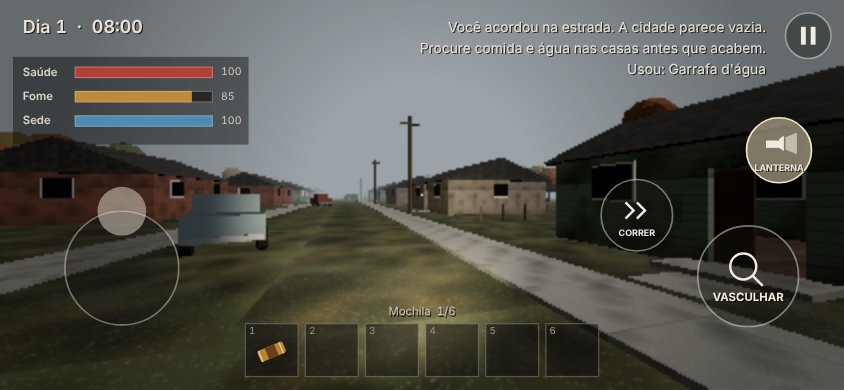
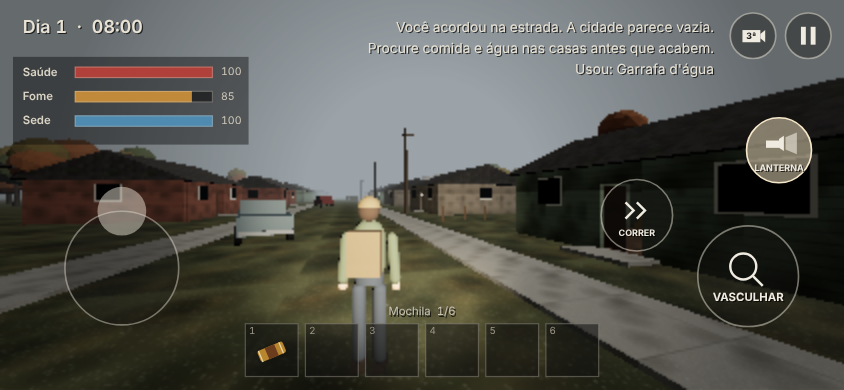
feat: câmera em terceira pessoa e personagem sobrevivente
Câmera sobre o ombro que se aproxima nas paredes, personagem com jaqueta,
boné e mochila que anda, corre e se abaixa ao vasculhar; V ou botão no
celular troca para primeira pessoa. Ajustes de câmera em config.js.

Story: SPIKE sobrevivencia-spike-2026-11-20

Claude-Session: https://claude.ai/code/session_013o8aek17KGRmKMrjDa2EVT

diff --git a/prototypes/sobrevivencia-spike-2026-11-20/index.html b/prototypes/sobrevivencia-spike-2026-11-20/index.html
@@ -40,11 +40,11 @@ const TITLE = 'SOBREVIVÊNCIA';
 const CONTROLS = TOUCH ? [
   'Polegar esquerdo: andar   ·   Arraste à direita: olhar',
   'Segure VASCULHAR perto de um móvel   ·   Toque na mochila: comer / beber',
-  'Botões: correr, lanterna e pausa',
+  'Botões: correr, lanterna, câmera e pausa',
 ] : [
   'W A S D: andar   ·   Mouse: olhar (ou setas ← →)   ·   Shift: correr',
   'Segure E: vasculhar móveis   ·   1 a 6: comer / beber / usar',
-  'F: lanterna   ·   P ou Esc: pausa   ·   M: som',
+  'F: lanterna   ·   V: trocar câmera   ·   P ou Esc: pausa   ·   M: som',
 ];
 const clock = window.GAME_CLOCK || { now: () => performance.now() / 1000 };
 const CHEAP = params.get('render') === 'cheap';
@@ -140,6 +140,7 @@ function layoutButtons() { // the right thumb's column, kept clear of the backpa
   BTN.run = { x: W - 255, y: H - 215, r: 44, label: 'CORRER' };
   BTN.flash = { x: W - 80, y: H - 295, r: 40, label: 'LANTERNA' };
   BTN.pause = { x: W - 44, y: 44, r: 28, label: '' };
+  BTN.view = { x: W - 112, y: 44, r: 28, label: '' };
 }
 layoutButtons();
 function toLogical(e) {
@@ -178,6 +179,7 @@ addEventListener('pointerdown', e => {
       else if (k === 'run') touch.run = !touch.run;
       else if (k === 'flash') hit.add('KeyF');
       else if (k === 'pause') hit.add('KeyP');
+      else if (k === 'view') hit.add('KeyV');
       return;
     }
   }
@@ -235,6 +237,10 @@ function drawTouch() {
       ctx.fillRect(b.x - 16, b.y - 12, 16, 9); ctx.beginPath(); ctx.moveTo(b.x, b.y - 14); ctx.lineTo(b.x + 6, b.y - 18); ctx.lineTo(b.x + 6, b.y + 1); ctx.lineTo(b.x, b.y - 3); ctx.fill();
       if (state.flash) { ctx.globalAlpha = 0.6; ctx.beginPath(); ctx.moveTo(b.x + 8, b.y - 16); ctx.lineTo(b.x + 22, b.y - 22); ctx.lineTo(b.x + 22, b.y + 5); ctx.lineTo(b.x + 8, b.y - 1); ctx.fill(); ctx.globalAlpha = 1; }
     } else if (k === 'pause') { ctx.fillRect(b.x - 9, b.y - 11, 6, 22); ctx.fillRect(b.x + 3, b.y - 11, 6, 22); }
+    else if (k === 'view') { // camera body with a lens; a small figure when in third person
+      ctx.fillRect(b.x - 13, b.y - 7, 22, 15); ctx.beginPath(); ctx.moveTo(b.x + 9, b.y - 2); ctx.lineTo(b.x + 15, b.y - 7); ctx.lineTo(b.x + 15, b.y + 8); ctx.lineTo(b.x + 9, b.y + 3); ctx.fill();
+      ctx.fillStyle = '#222'; ctx.font = `700 11px ${FONT}`; ctx.textAlign = 'center'; ctx.textBaseline = 'middle'; ctx.fillText(viewMode === 3 ? '3ª' : '1ª', b.x - 2, b.y + 1);
+    }
     if (b.label) shadowText(b.label, b.x, b.y + (k === 'search' ? 26 : 22), k === 'search' ? 14 : 11, '#f0ebe0', 'center', '700');
   }
   ctx.restore();
@@ -612,6 +618,56 @@ function buildWorld() {
 buildWorld();
 const aimTargets = solids.slice();
 
+// ---- The survivor (third person) -----------------------------------------------------------
+// Built from capsules and boxes, facing local -z. Legs and arms swing from hip and shoulder
+// pivots; crouching lowers the body and reaches the arms forward.
+let viewMode = 3; // 3: over the shoulder, 1: through the eyes (V or the camera button)
+const hero = (() => {
+  const C = (c, r = 0.85) => new THREE.MeshStandardMaterial({ color: c, roughness: r });
+  const skin = C(0xb88a6c, 0.7), jacket = C(0x4b5340), pants = C(0x30363f), boots = C(0x2b231d), cap = C(0x6b5a3f), pack = C(0x5b4a33), strap = C(0x2e2a24);
+  const root = new THREE.Group(), body = new THREE.Group(); root.add(body); world.add(root);
+  const part = (geo, mat, x, y, z, parent) => { const m = new THREE.Mesh(geo, mat); m.position.set(x, y, z); m.castShadow = true; parent.add(m); return m; };
+  const legs = [-0.11, 0.11].map(x => {
+    const pv = new THREE.Group(); pv.position.set(x, 0.95, 0); root.add(pv);
+    part(new THREE.CapsuleGeometry(0.075, 0.68, 4, 10), pants, 0, -0.43, 0, pv);
+    part(new THREE.BoxGeometry(0.13, 0.11, 0.27), boots, 0, -0.89, -0.04, pv);
+    return pv;
+  });
+  const torso = new THREE.Group(); torso.position.y = 0.95; body.add(torso);
+  part(new THREE.CapsuleGeometry(0.17, 0.32, 4, 12), jacket, 0, 0.32, 0, torso).scale.set(1, 1, 0.72);
+  part(new THREE.CylinderGeometry(0.16, 0.15, 0.12, 12), pants, 0, 0.04, 0, torso).scale.set(1, 1, 0.75);
+  part(new THREE.CylinderGeometry(0.05, 0.06, 0.1, 8), skin, 0, 0.62, 0, torso);
+  part(new THREE.SphereGeometry(0.115, 16, 12), skin, 0, 0.74, 0, torso).scale.set(0.92, 1.08, 1);
+  part(new THREE.SphereGeometry(0.122, 16, 8, 0, Math.PI * 2, 0, Math.PI / 2), cap, 0, 0.77, 0, torso);
+  part(new THREE.SphereGeometry(0.118, 14, 10), C(0x3a2c22, 1), 0, 0.735, 0.018, torso).scale.set(0.95, 0.95, 0.95); // hair, showing at the back
+  part(new THREE.BoxGeometry(0.2, 0.02, 0.12), cap, 0, 0.775, -0.15, torso);
+  part(new THREE.BoxGeometry(0.32, 0.42, 0.17), pack, 0, 0.34, 0.2, torso);
+  part(new THREE.BoxGeometry(0.28, 0.12, 0.06), pack, 0, 0.2, 0.31, torso);
+  for (const x of [-0.1, 0.1]) part(new THREE.BoxGeometry(0.04, 0.42, 0.03), strap, x, 0.36, -0.12, torso);
+  const arms = [-0.235, 0.235].map(x => {
+    const pv = new THREE.Group(); pv.position.set(x, 0.5, 0); torso.add(pv);
+    part(new THREE.CapsuleGeometry(0.06, 0.42, 4, 8), jacket, 0, -0.26, 0, pv);
+    part(new THREE.SphereGeometry(0.05, 10, 8), skin, 0, -0.55, -0.01, pv);
+    return pv;
+  });
+  return { root, body, torso, legs, arms };
+})();
+function lerpAngle(a, b, t) { let d = ((b - a + Math.PI) % (Math.PI * 2) + Math.PI * 2) % (Math.PI * 2) - Math.PI; return a + d * t; }
+function poseHero(x, z) {
+  const s = state, h = hero, c = s.crouch || 0;
+  h.root.position.set(x, 0, z); h.root.rotation.y = s.face;
+  const amp = s.speedNow > 4.5 ? 0.85 : 0.5, sw = Math.sin(s.bob * 1.4) * amp * Math.min(1, s.speedNow / 2);
+  h.legs[0].rotation.x = sw * (1 - c); h.legs[1].rotation.x = -sw * (1 - c);
+  h.legs[0].scale.y = h.legs[1].scale.y = 1 - 0.32 * c;
+  h.torso.position.y = 0.95 - 0.3 * c + Math.abs(Math.sin(s.bob * 1.4)) * 0.03 * Math.min(1, s.speedNow / 2);
+  h.torso.rotation.x = -0.45 * c - (s.speedNow > 4.5 ? 0.15 : 0);
+  const reach = c > 0.5 ? Math.sin(s.t * 9) * 0.25 : 0;
+  h.arms[0].rotation.x = -sw * 0.8 * (1 - c) - 1.1 * c + reach; h.arms[1].rotation.x = sw * 0.8 * (1 - c) - 1.1 * c - reach;
+  h.arms[0].rotation.z = -0.08; h.arms[1].rotation.z = 0.08;
+}
+const camRay = new THREE.Raycaster();
+const _v = new THREE.Vector3(), _o = new THREE.Vector3();
+
 // ---- Loot ------------------------------------------------------------------------------
 function rollLoot(type, chance = 1) {
   const t = CONFIG.loot[type], out = [];
@@ -637,7 +693,7 @@ function reset() {
     hour: sh !== null ? Number(sh) : tune.start_hour, startHour: sh !== null ? Number(sh) : tune.start_hour,
     health: 100, hunger: tune.start_hunger, thirst: tune.start_thirst, sick: 0,
     inv: ['agua', 'cereal'], flash: false, search: null, aim: null, msgs: [],
-    walked: 0, bob: 0, heart: 0, searched: 0, eaten: 0, days: 0, dead: false,
+    walked: 0, bob: 0, heart: 0, face: 0, crouch: 0, speedNow: 0, searched: 0, eaten: 0, days: 0, dead: false,
   };
   for (const c of containers) { c.items = rollLoot(c.type); c.searched = false; c.refillAt = 0; }
   say('Você acordou na estrada. A cidade parece vazia.');
@@ -647,6 +703,21 @@ function say(s) { state.msgs.push({ s, life: 6 }); if (state.msgs.length > 5) st
 const ray = new THREE.Raycaster(); ray.far = 2.4;
 const v2 = new THREE.Vector2(0, 0);
 function aimContainer() {
+  if (viewMode === 3) { // the nearest furniture in front of the survivor, in the same room
+    const s = state, fx = -Math.sin(s.yaw), fz = -Math.cos(s.yaw);
+    let best = null, bd = 1e9;
+    for (const c of containers) {
+      const p = c.group.position, dx = p.x - s.x, dz = p.z - s.z, d = Math.hypot(dx, dz);
+      if (d > tune.reach_3p || d >= bd) continue;
+      if (d > 0.01 && (dx * fx + dz * fz) / d < 0.35) continue;
+      _o.set(s.x, 1.0, s.z); _v.set(dx, 0, dz).normalize(); ray.set(_o, _v); ray.far = d;
+      const hit = ray.intersectObjects(aimTargets, false)[0];
+      let o = hit && hit.object, mine = !hit;
+      while (o && !mine) { if (o.userData.container === c) mine = true; o = o.parent; }
+      if (mine) { best = c; bd = d; }
+    }
+    ray.far = 2.4; return best;
+  }
   ray.setFromCamera(v2, camera);
   const hits = ray.intersectObjects(aimTargets, false);
   if (!hits.length) return null;
@@ -655,9 +726,25 @@ function aimContainer() {
   return null;
 }
 function placeCamera(alpha = 1) {
-  const s = state;
-  camera.position.set(s.px + (s.x - s.px) * alpha, 1.62 + Math.sin(s.bob) * 0.035, s.pz + (s.z - s.pz) * alpha);
+  const s = state, x = s.px + (s.x - s.px) * alpha, z = s.pz + (s.z - s.pz) * alpha;
   camera.rotation.set(s.pitch, s.yaw, 0);
+  if (viewMode === 1 || scene === 'title') {
+    hero.root.visible = false;
+    camera.position.set(x, 1.62 - 0.45 * (s.crouch || 0) + Math.sin(s.bob) * 0.035, z); return;
+  }
+  poseHero(x, z);
+  // over the shoulder: back along the view, to the right, pulled in when a wall is in the way
+  const cp = Math.cos(s.pitch), sy = Math.sin(s.yaw), cy = Math.cos(s.yaw);
+  _o.set(x, 1.55 - 0.3 * (s.crouch || 0), z);
+  _v.set(sy * cp * tune.cam_distance + cy * tune.cam_shoulder, tune.cam_height - Math.sin(s.pitch) * tune.cam_distance,
+    cy * cp * tune.cam_distance - sy * tune.cam_shoulder);
+  const want = _v.length(); _v.normalize();
+  camRay.set(_o, _v); camRay.far = want + 0.25;
+  const hit = camRay.intersectObjects(aimTargets, false)[0];
+  const d = hit ? Math.max(0.2, hit.distance - 0.25) : want;
+  camera.position.copy(_o).addScaledVector(_v, d);
+  if (camera.position.y < 0.25) camera.position.y = 0.25;
+  hero.root.visible = d > 0.7; // too close to the head: hide the body rather than look through it
 }
 function collide(p) {
   const r = tune.player_radius;
@@ -746,7 +833,8 @@ const scenes = {
       s.yaw -= lookX * tune.mouse_sens; s.pitch -= lookY * tune.mouse_sens; lookX = lookY = 0;
       if (down.has('ArrowLeft')) s.yaw += tune.turn_speed * dt;
       if (down.has('ArrowRight')) s.yaw -= tune.turn_speed * dt;
-      s.pitch = Math.max(-1.4, Math.min(1.4, s.pitch));
+      s.pitch = viewMode === 3 ? Math.max(-1.0, Math.min(0.75, s.pitch)) : Math.max(-1.4, Math.min(1.4, s.pitch));
+      if (pressed('KeyV')) { viewMode = viewMode === 3 ? 1 : 3; say(viewMode === 3 ? 'Câmera: terceira pessoa' : 'Câmera: primeira pessoa'); sfx.click(); }
       // move
       let f = 0, st = 0;
       if (down.has('KeyW') || down.has('ArrowUp')) f += 1;
@@ -763,9 +851,11 @@ const scenes = {
         s.x += (-sy * f + cy * st) / len * sp * dt; s.z += (-cy * f - sy * st) / len * sp * dt;
         collide(s);
         const moved = Math.hypot(s.x - s.px, s.z - s.pz);
+        if (moved > 0.001) s.face = lerpAngle(s.face, Math.atan2(-(s.x - s.px), -(s.z - s.pz)), Math.min(1, 12 * dt));
         s.bob += moved * 3.2; s.walked += moved;
         if (s.walked > (running ? 1.6 : 1.35)) { s.walked = 0; sfx.step(); }
       }
+      s.speedNow = Math.hypot(s.x - s.px, s.z - s.pz) / dt;
       // time and needs
       s.hour += 24 / tune.day_length * dt;
       s.hunger = Math.max(0, s.hunger - tune.hunger_drain / 60 * dt);
@@ -806,6 +896,8 @@ const scenes = {
           }
         } else if (pressed('KeyE')) { if (c.items.length) take(c); else { say(`A ${c.name} está vazia.`); sfx.empty(); } }
       } else s.search = null;
+      s.crouch += ((s.search ? 1 : 0) - s.crouch) * Math.min(1, 10 * dt);
+      if (s.search) { const p = s.search.c.group.position; s.face = lerpAngle(s.face, Math.atan2(-(p.x - s.x), -(p.z - s.z)), Math.min(1, 10 * dt)); }
       for (const m of s.msgs) m.life -= dt;
       s.msgs = s.msgs.filter(m => m.life > 0);
       s.days = Math.floor((s.hour - s.startHour) / 24);
@@ -943,7 +1035,7 @@ function drawHud(day) {
   }
   // messages
   s.msgs.forEach((m, i) => {
-    ctx.globalAlpha = Math.min(1, m.life); shadowText(m.s, W - (TOUCH ? 96 : 28), 34 + i * 26, 17, '#e8e2d4', 'right'); ctx.globalAlpha = 1;
+    ctx.globalAlpha = Math.min(1, m.life); shadowText(m.s, W - (TOUCH ? 160 : 28), 34 + i * 26, 17, '#e8e2d4', 'right'); ctx.globalAlpha = 1;
   });
   if (TOUCH) drawTouch();
 }

diff --git a/prototypes/sobrevivencia-spike-2026-11-20/config.js b/prototypes/sobrevivencia-spike-2026-11-20/config.js
@@ -43,6 +43,12 @@ window.CONFIG = {
   sick_time: { value: 60, min: 10, max: 300, step: 5 },       // segundos doente
   sick_damage: { value: 15, min: 0, max: 60, step: 1 },       // saúde perdida por minuto doente
 
+  // --- Câmera em terceira pessoa ---
+  cam_distance: { value: 2.8, min: 1, max: 6, step: 0.1 },    // m atrás do personagem
+  cam_shoulder: { value: 0.55, min: -1.5, max: 1.5, step: 0.05 }, // m para o lado (positivo: ombro direito)
+  cam_height: { value: 0.3, min: -0.5, max: 2, step: 0.05 },   // m acima da cabeça
+  reach_3p: { value: 2.0, min: 1, max: 3.5, step: 0.1 },       // m até onde alcança um móvel na frente
+
   // --- Movimento ---
   walk_speed: { value: 3.2, min: 1, max: 8, step: 0.1 },      // m/s
   run_speed: { value: 5.6, min: 2, max: 12, step: 0.1 },      // m/s com Shift
